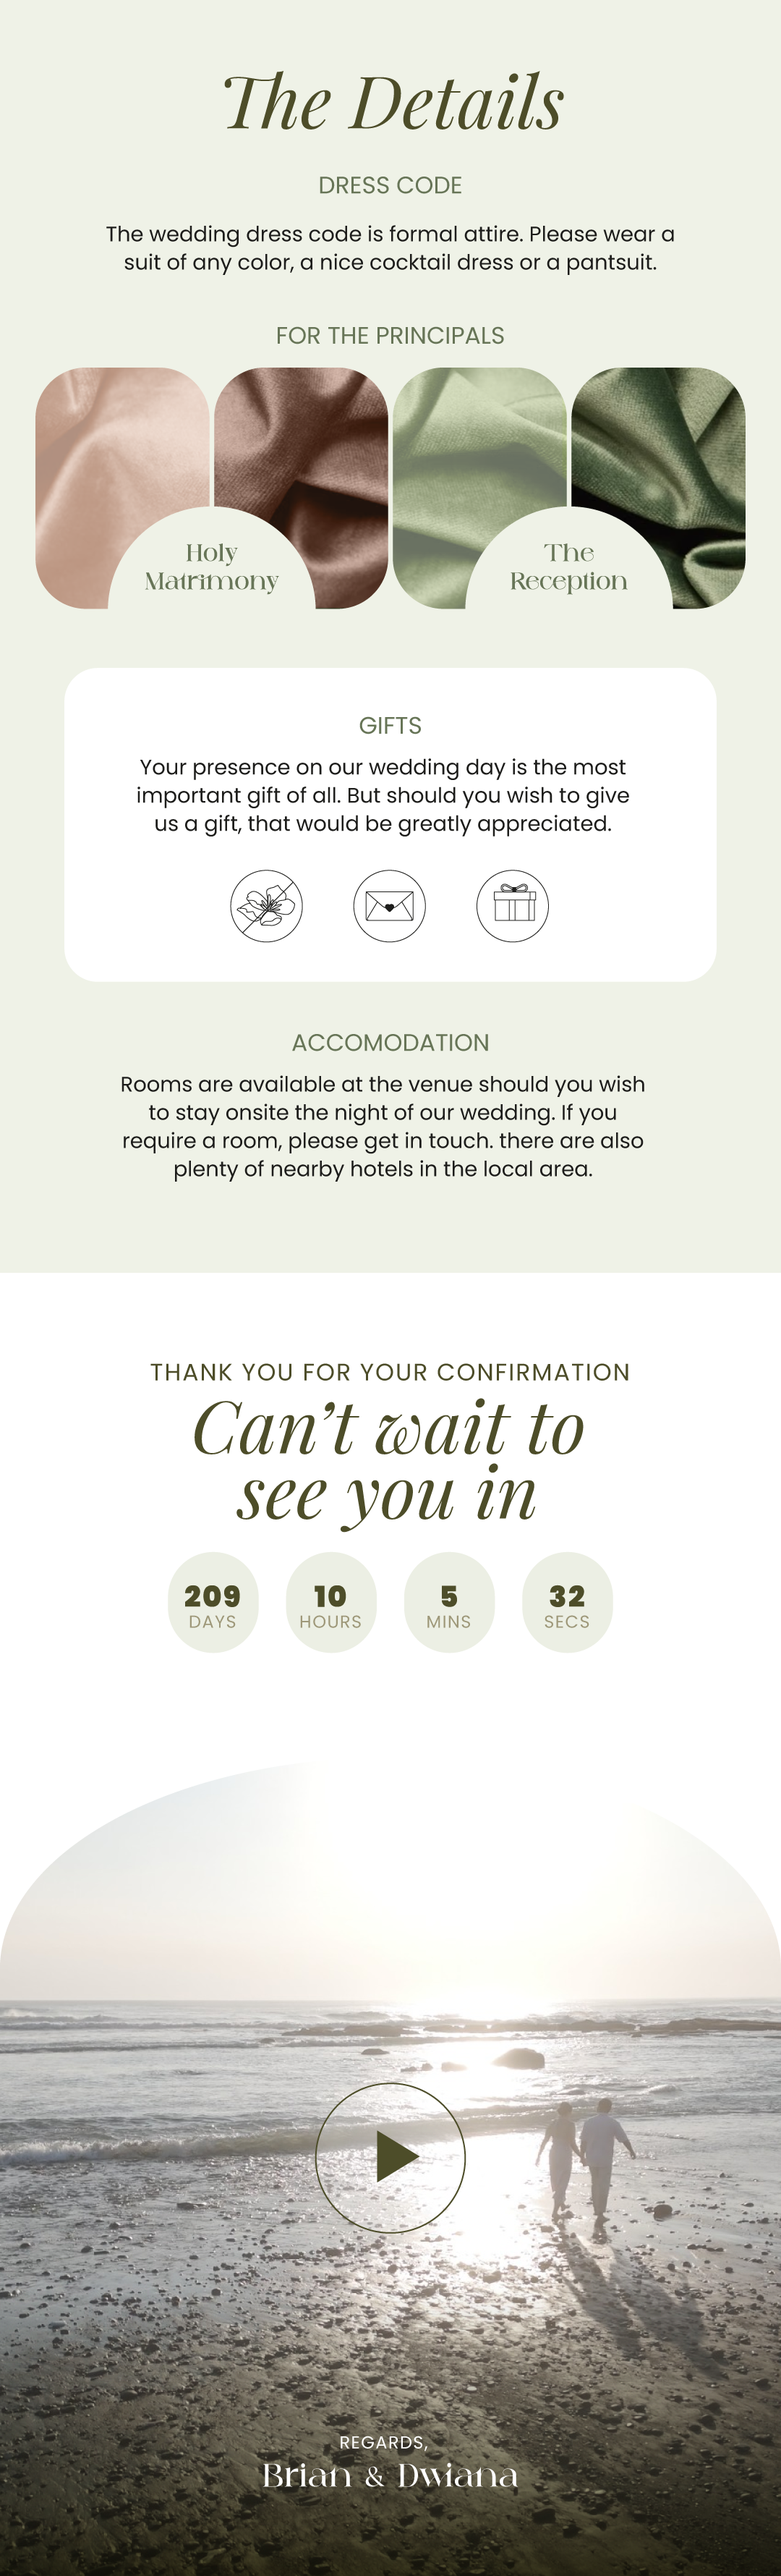
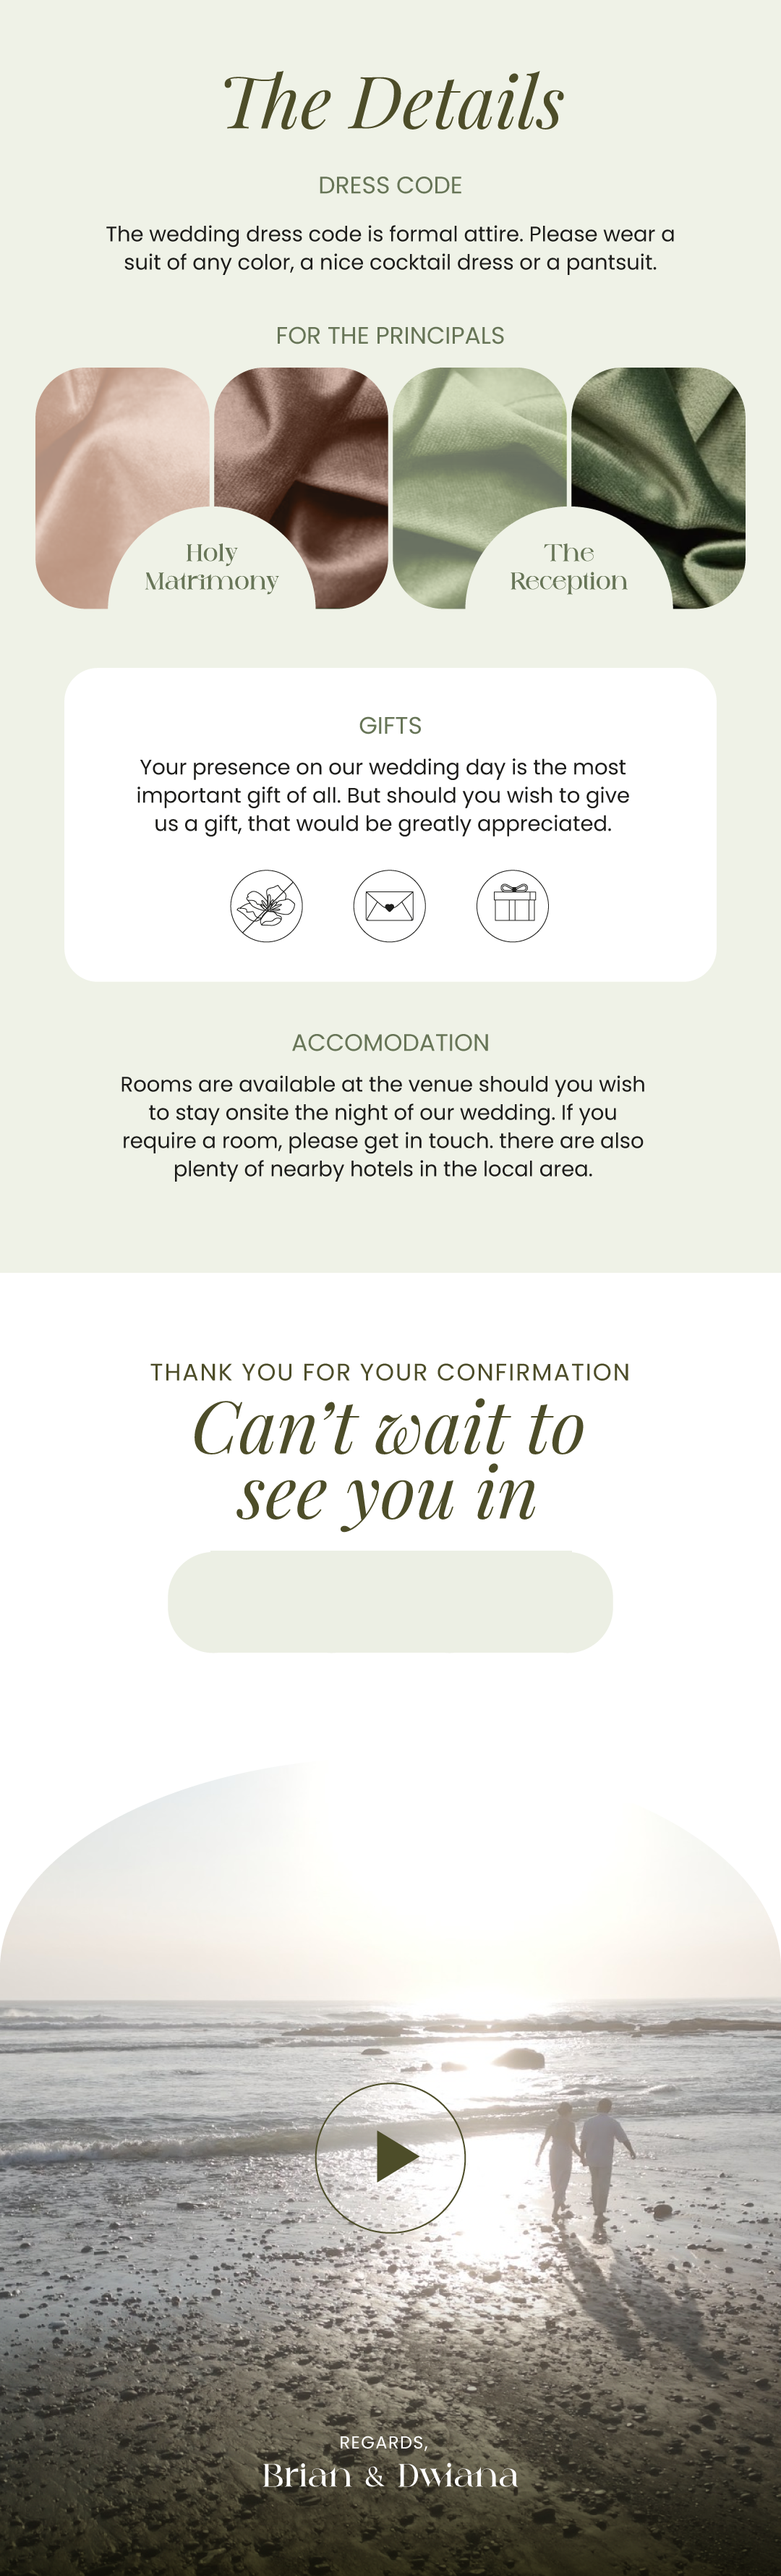
Add files via upload
Add countdown and fixes grid column

Changed region(s): [[0.2444, 0.5924, 0.5806, 0.6548], [0.6111, 0.5924, 0.7639, 0.6548]]

diff --git a/index.html b/index.html
@@ -119,18 +119,18 @@
       <div class="album-grid">
         
         <article class="album-item">
-          <img src="images/DSC09503.jpg" alt="Bri and Dwi walking down the aisle under hanging white floral arrangements.">
-          <div class="album-caption">The Ceremony</div>
+          <img src="images/Foto-3.png" alt="Prewed Photo 1">
+          <!--<div class="album-caption">The Ceremony</div>-->
         </article>
 
         <article class="album-item">
-          <img src="images/DSC09503.jpg" alt="Guests dancing laughing inside a brightly lit tent at nighttime.">
-          <div class="album-caption">The Reception</div>
+          <img src="images/Foto-7.png" alt="Prewed Photo 2">
+          <!--<div class="album-caption">The Reception</div>-->
         </article>
 
         <article class="album-item">
-          <img src="images/DSC09503.jpg" alt="A close up view of the tiered wedding cake decorated with gold leaf accents.">
-          <div class="album-caption">Details & Design</div>
+          <img src="images/Foto-4.png" alt="Prewed Photo 3">
+          <!--<div class="album-caption">Details & Design</div>-->
         </article>
 
       </div>
@@ -138,7 +138,10 @@
 	
 	<section aria-label="The Details">
 		<div style="height: 50px;"></div>
-		<img src="images/TheDetails.png" alt="Details Background" class="hero-BriDe">
+		<div class="event-card-wrapper">
+			<img src="images/TheDetails.png" style="width: 100%; height: auto;">
+			<p id="countdown"></p>
+		</div>
 	</section>
 	
 	<section aria-label="The Details 2">

diff --git a/css/style.css b/css/style.css
@@ -258,7 +258,7 @@ main {
 /* --- Centered Events Timeline Layout --- */
 .events-container {
   display: grid;
-  grid-template-columns: repeat(auto-fit, minmax(450px, 1fr));
+  grid-template-columns: repeat(auto-fit, minmax(min(450px, 100%), 1fr));
   gap: 30px;
   margin: 30px auto;
   max-width: 1080px;
@@ -337,7 +337,7 @@ main {
 /* --- Fluid Image Grid --- */
 .album-grid {
   display: grid;
-  grid-template-columns: repeat(auto-fit, minmax(300px, 1fr));
+  grid-template-columns: repeat(auto-fit, minmax(min(300px, 100%), 1fr));
   gap: 24px;
   margin-top: 40px;
 }
@@ -368,6 +368,16 @@ main {
   text-align: center;
   color: var(--primary-color);
   border-top: 1px solid #E2E8F0;
+}
+
+#countdown {
+    position: absolute;
+    top: 62%;       /* adjust this */
+    left: 50%;
+    transform: translate(-50%, -50%);
+    font-size: 2rem;
+    font-weight: 600;
+    color: #4D4D29;
 }
 
 /* --- Keyboard Navigation Focus Rules --- */

diff --git a/js/script.js b/js/script.js
@@ -288,3 +288,9 @@ function loadPublicGreetings() {
 function escapeHtml(str) {
   return String(str || '').replace(/&/g, '&amp;').replace(/</g, '&lt;').replace(/>/g, '&gt;').replace(/"/g, '&quot;');
 }
+
+// Countdown timer
+const weddingDate = new Date("2027-02-27T11:00:00+07:00");
+const today = new Date();
+const daysLeft = Math.ceil((weddingDate - today) / (1000 * 60 * 60 * 24));
+document.getElementById("countdown").textContent = daysLeft + " DAYS";
